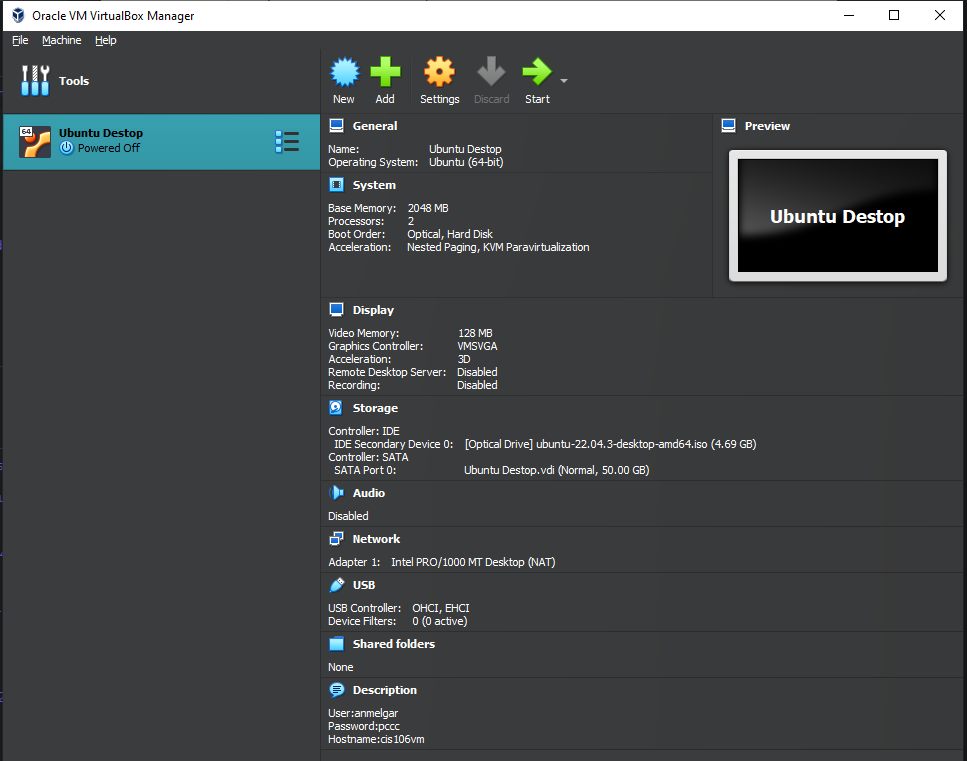
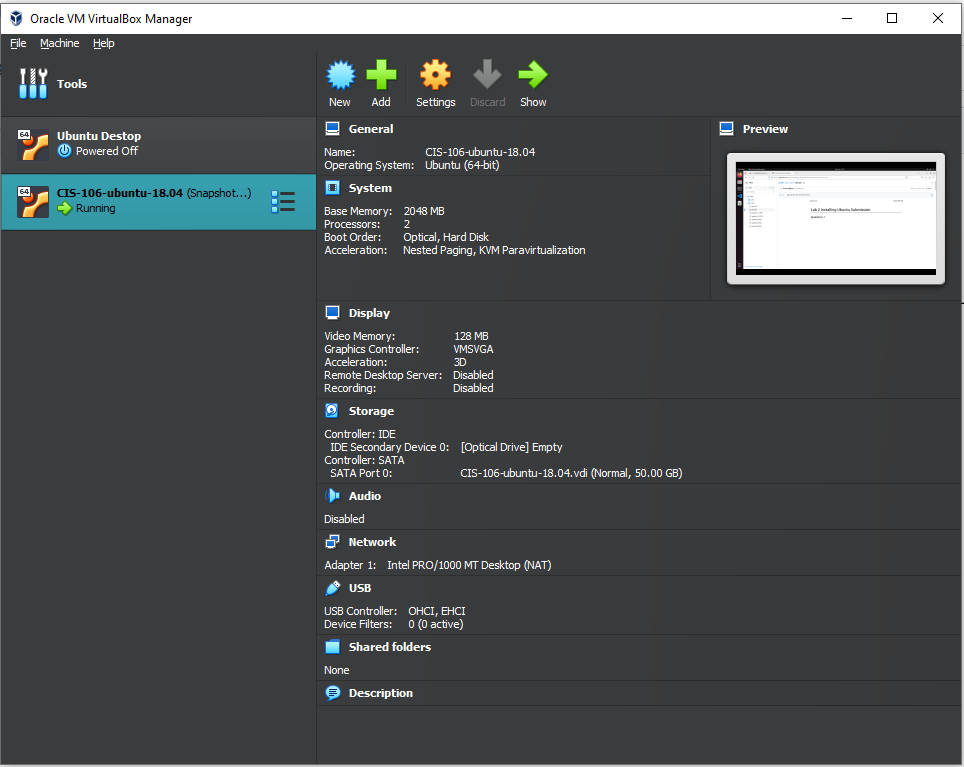
Finished lab 2

Changed region(s): [[0.0, 0.0, 1.0, 1.0]]

diff --git a/Labs/Lab 2/lab2.md b/Labs/Lab 2/lab2.md
@@ -1,0 +1,17 @@
+---
+name: Anthony Melgar
+Semester: Spring 23
+Course: CIS 106 Linux Fundamentals
+---
+
+# Lab 2 Installing Ubuntu Submission
+
+## Question 1 
+![q1.1](question1.1.PNG)
+![q1.2](question1.2.PNG)
+## Question 2
+![q2](question2.PNG)
+## Question 3 
+![q3](question3.PNG)
+## Question 4
+![q4](question4.PNG)
